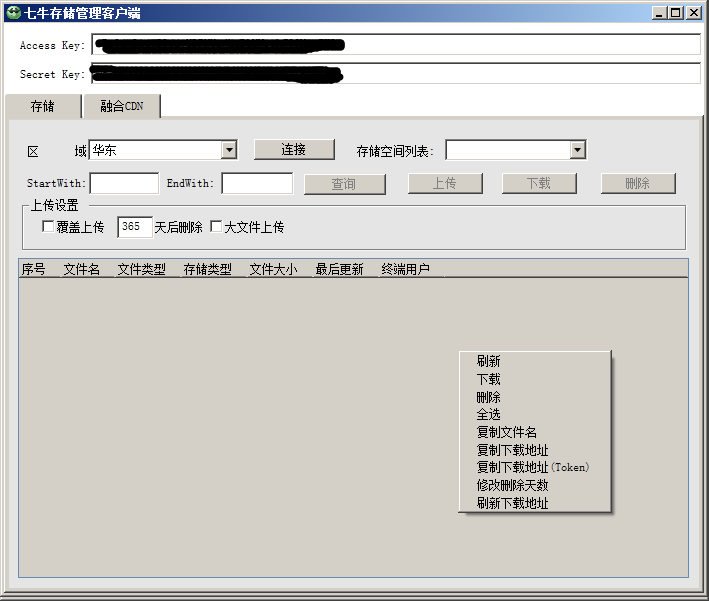
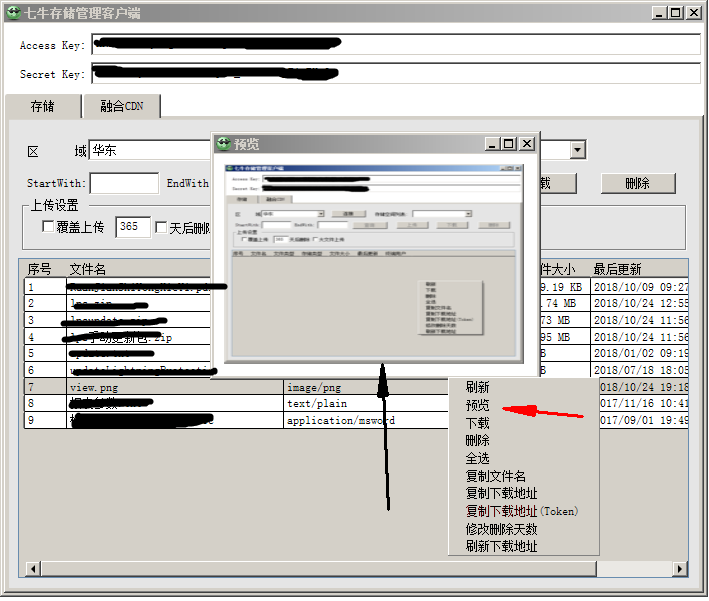
修改说明

diff --git a/README.md b/README.md
@@ -2,6 +2,9 @@
 <Br/>
 QiNiu bucket Client 简单的七牛存储客户端，增加了批量下载功能, 使用wpf  基于 .net framework 4.0
 <Br/>
-下载Dubug.zip直接使用，填写AK和SK就行。<Br/>
+下载QiNiuClient.zip直接使用，填写AK和SK就行。<Br/>
 
 ![image](https://github.com/wjs5943283/QiNiuBucketClient/blob/master/view.png)
+
+更新日志：
+2018年10月24日···············增加预览功能。
